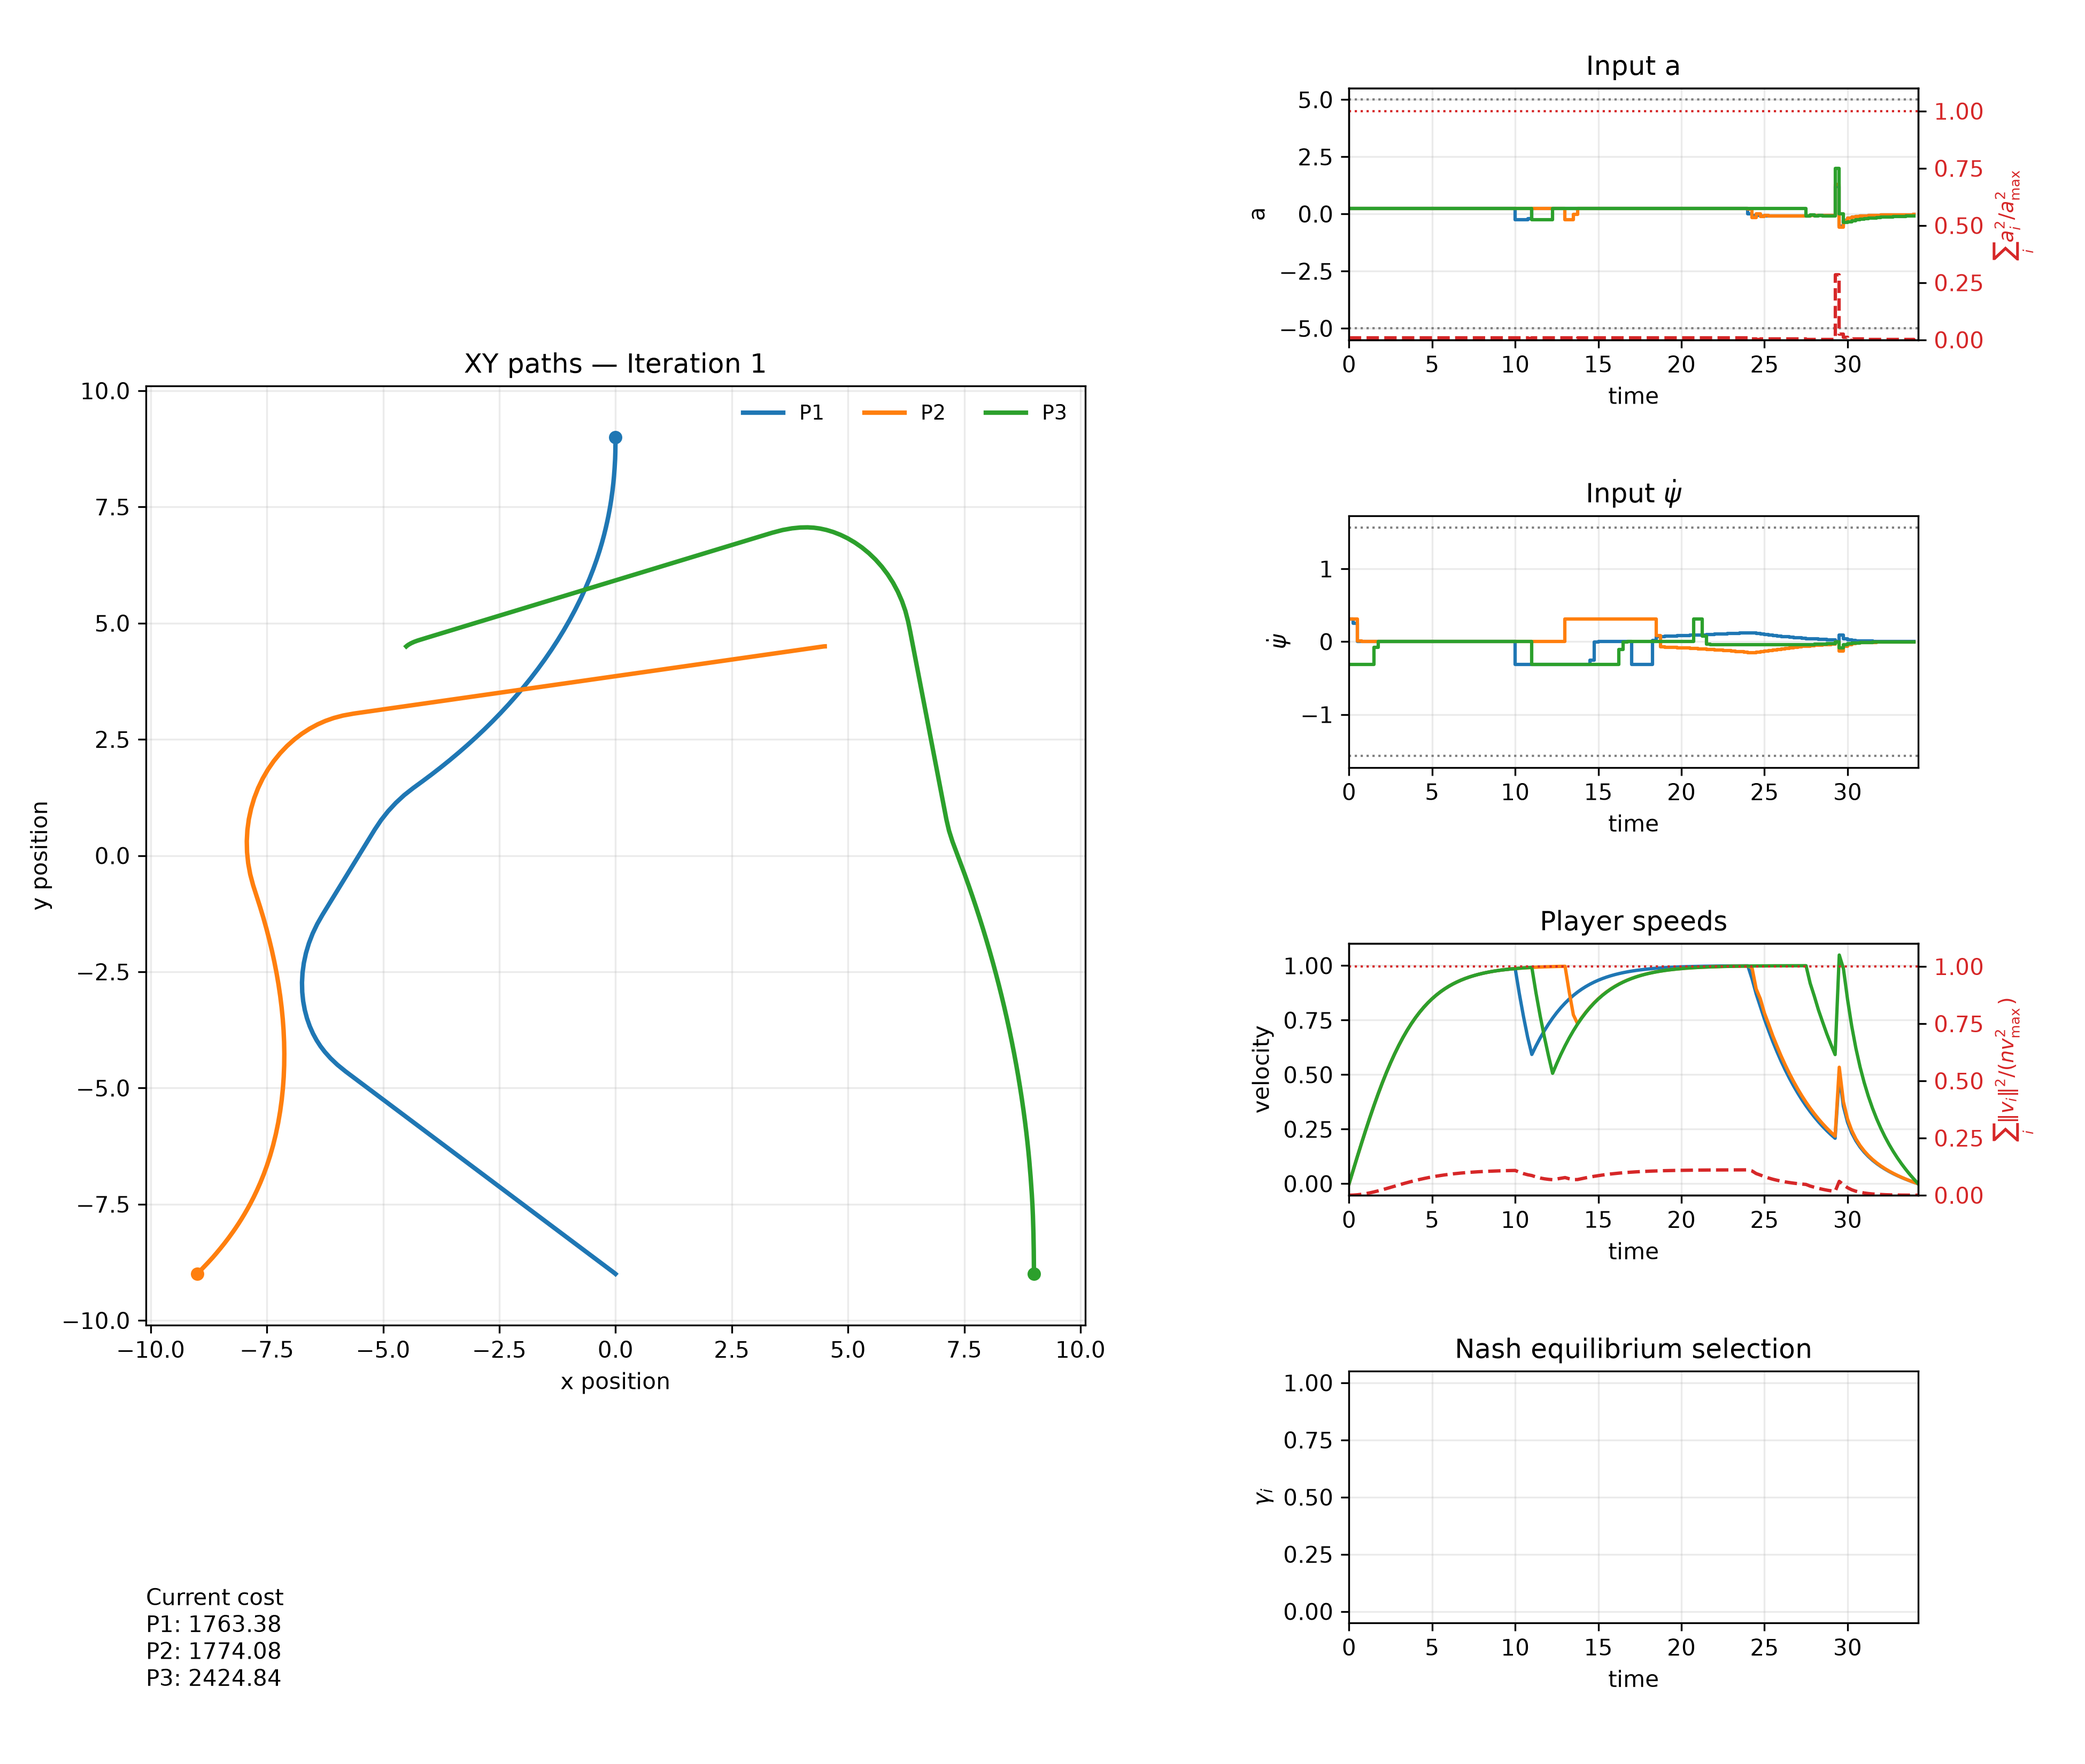
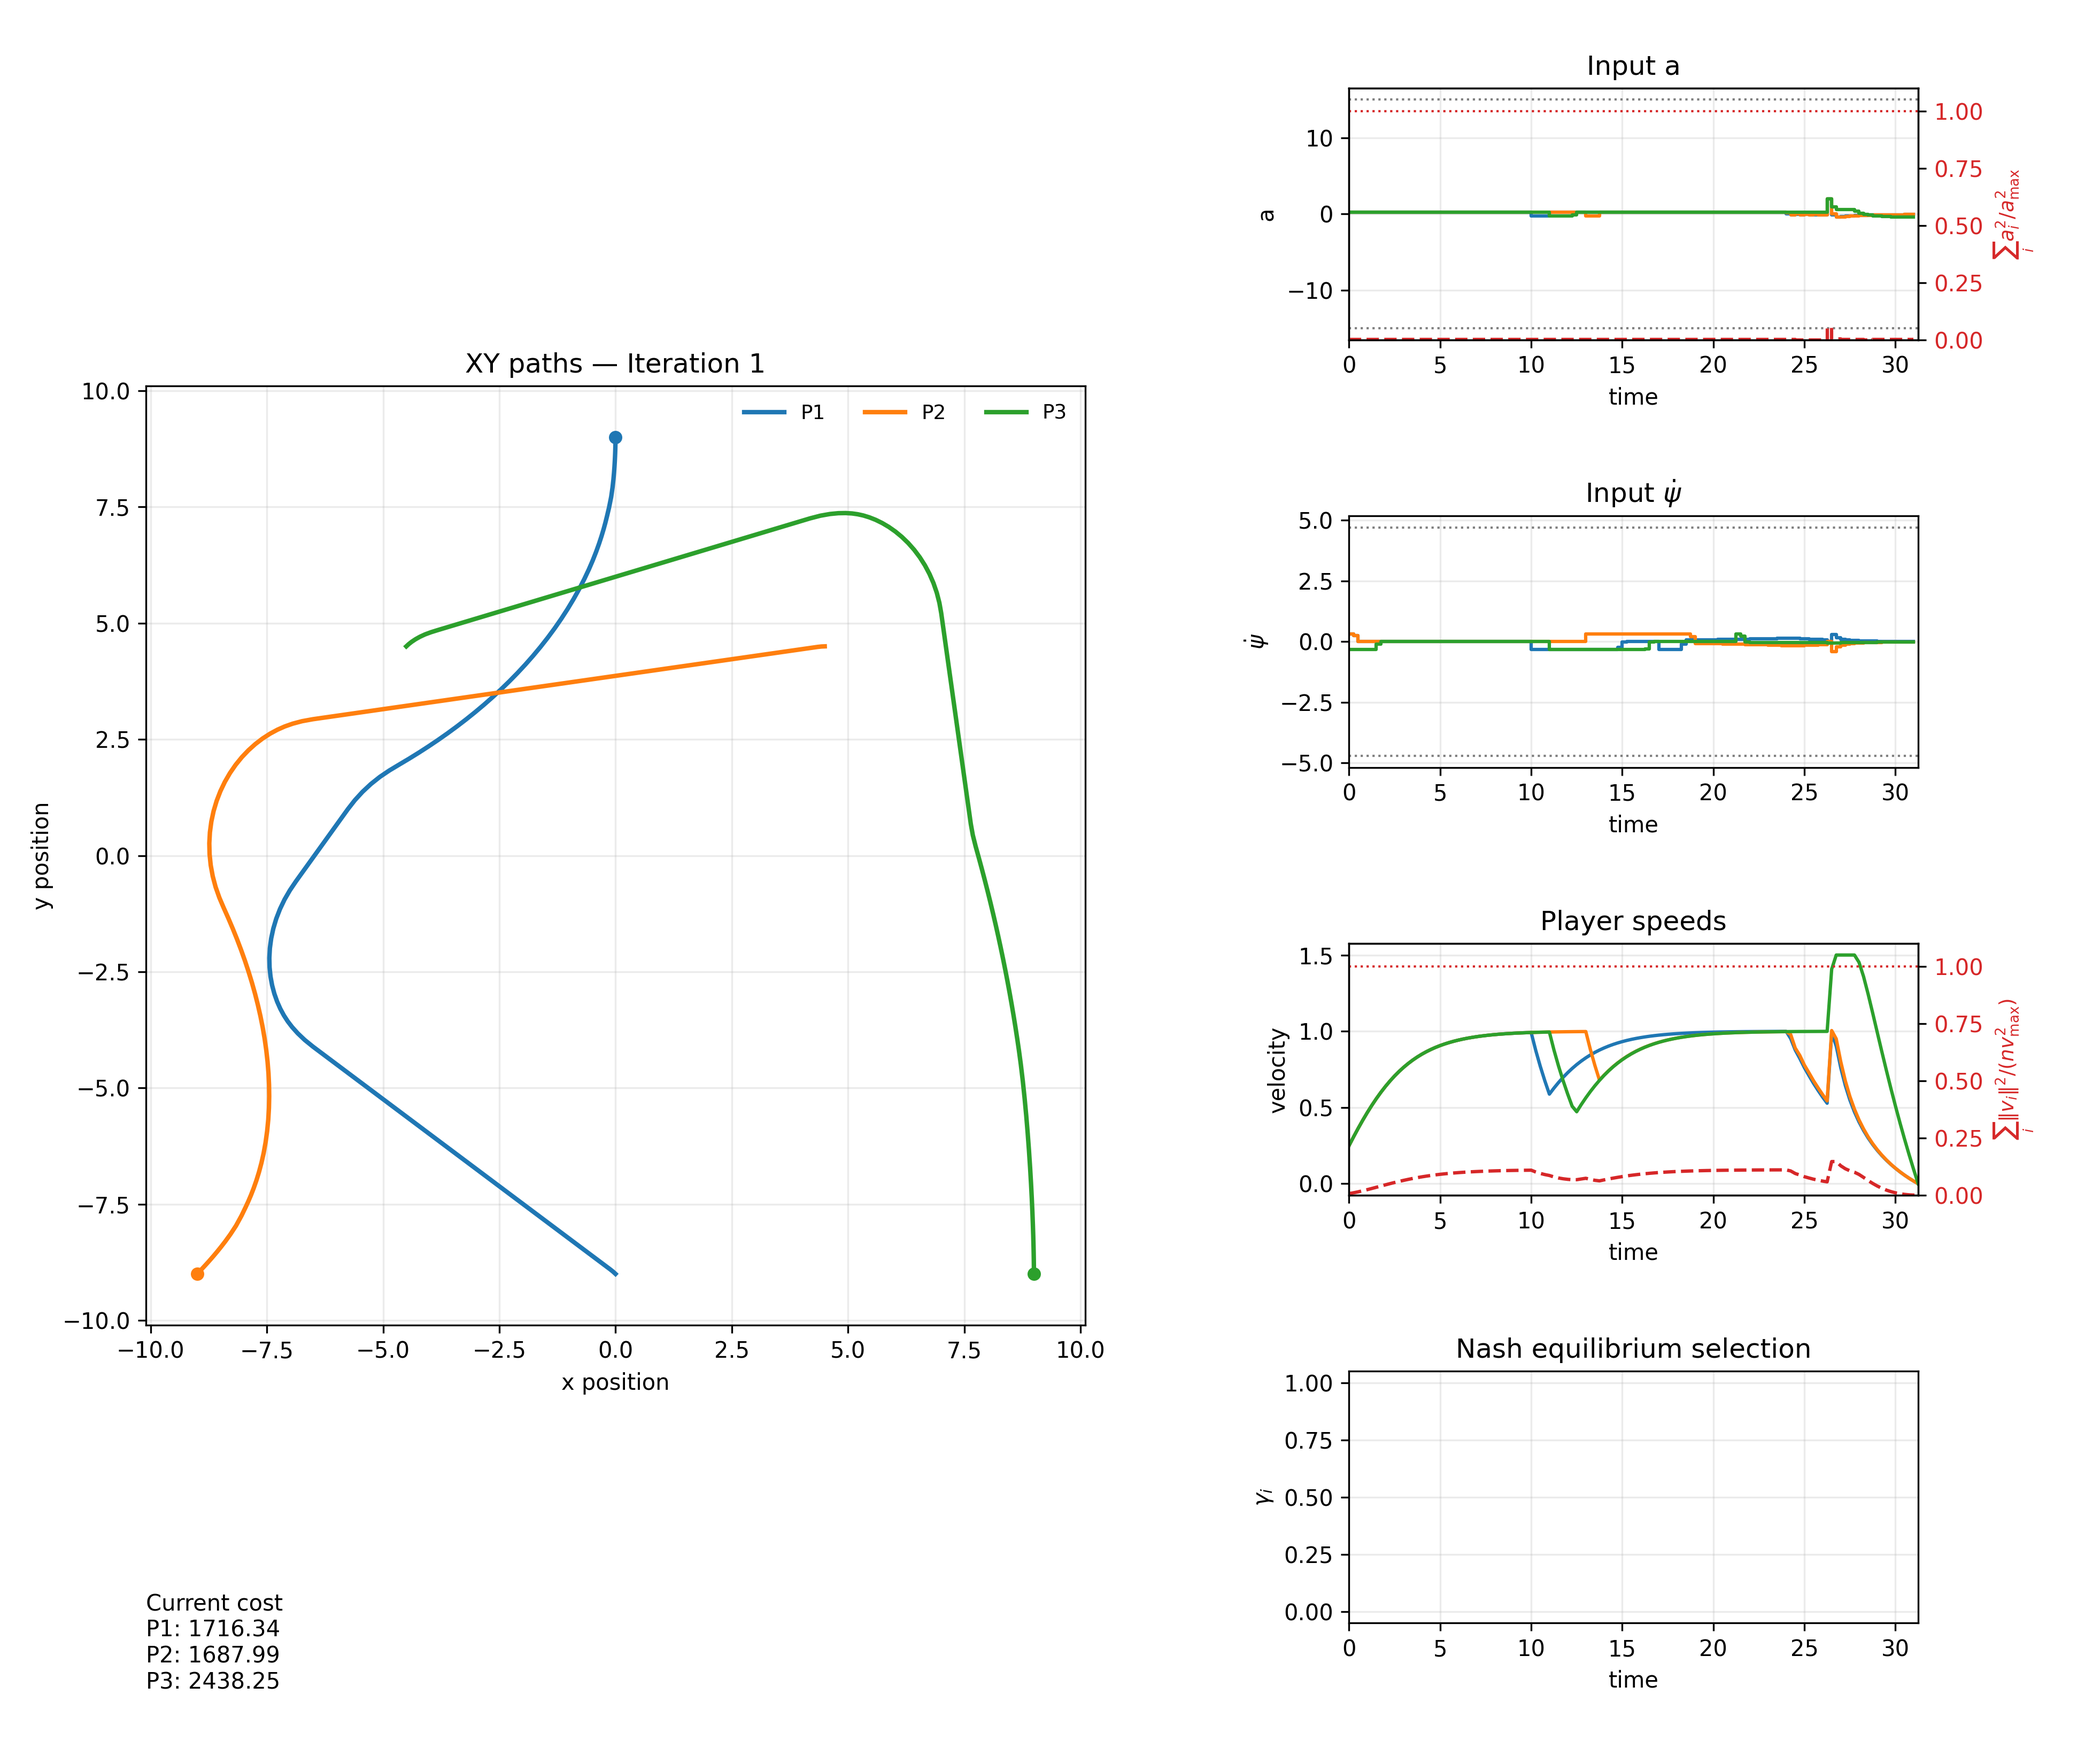
new mpc init

diff --git a/Game.py b/Game.py
@@ -104,8 +104,8 @@ class GameDynamics:
         self.d_sep = d_sep
         self.CD = 0.25  # drag coefficient for unicycle dynamics
         self.x_elip = 1.0
-        self.y_elip = 1.0
-        self.a_elip = 5.0
+        self.y_elip = 0.0
+        self.a_elip = 6.0
         self.b_elip = 2.0
 
         self.x0 = x0
@@ -140,11 +140,11 @@ class GameDynamics:
             steering_min, steering_max = self.steering_bounds
             self.f_private = ca.Function(
                 'f_private', [x1_sym, u1_sym], [
-                    u1_sym[0] + self.a_max,
-                    self.a_max - u1_sym[0],
+                    1-u1_sym[0]/self.a_max,
+                    u1_sym[0]/self.a_max+1,
                     x1_sym[2] - self.v_min,
-                    u1_sym[1] - steering_min,
-                    steering_max - u1_sym[1],
+                    u1_sym[1]/steering_min+1,
+                    1-u1_sym[1]/steering_max,
                     (x1_sym[0] - self.x_elip)**2/self.a_elip**2 + (x1_sym[1] - self.y_elip)**2/self.b_elip**2-1,
                 ],
             )
@@ -172,15 +172,13 @@ class GameDynamics:
                 offset_x = player * self.nx1
                 velocities.append(x_sym[offset_x + 2])
                 acc.append(u_sym[0])
-        shared_constraints.append(self.n_players * self.v_max**2 - sum(ca.sumsqr(v) for v in velocities))
-        shared_constraints.append(self.a_max**2 - sum(ca.sumsqr(acc) for acc in acc))
+        shared_constraints.append(1 - sum(ca.sumsqr(v) for v in velocities)/(self.n_players * self.v_max**2))
+        shared_constraints.append(1 - sum(ca.sumsqr(acc) for acc in acc)/self.a_max**2)
         for first in range(self.n_players):
             for second in range(first + 1, self.n_players):
                 i = first * self.nx1
                 j = second * self.nx1
-                shared_constraints.append(
-                    ca.sumsqr(x_sym[i:i + 2] - x_sym[j:j + 2]) - self.d_sep**2
-                )
+                shared_constraints.append( ca.sumsqr(x_sym[i:i + 2] - x_sym[j:j + 2])/self.d_sep**2-1 )
         self.f_shared = ca.Function('f_shared', [x_sym, *u_syms], shared_constraints)
         # self.f_shared = ca.Function('f_shared', [x_sym, u1_sym, u2_sym], [ca.sumsqr(x_sym[:2]-x_sym[self.nx1:self.nx1+2]) - self.d_sep**2])
 
@@ -193,6 +191,12 @@ class GameDynamics:
         k3 = self.dynamics(x1_sym + 0.5 * dt * k2, u1_sym)
         k4 = self.dynamics(x1_sym + dt * k3, u1_sym)
         self.xkp1 = x1_sym + (dt / 6.0) * (k1 + 2.0 * k2 + 2.0 * k3 + k4)
+        
+        if self.has_heading_state:
+            theta = self.xkp1[3]
+            self.xkp1[3] = theta - 2 * ca.pi * ca.floor(
+                    (theta + ca.pi) / (2 * ca.pi)
+        )
         
         # RK2:
         # k1 = self.dynamics(x1_sym, u1_sym)

diff --git a/LDG_Simulation.py b/LDG_Simulation.py
@@ -35,8 +35,8 @@ cooperative_mode = True
 bargaining_gammas = np.array([0.5])
 bargaining_gamma1 = np.array([1/3.0, 0.35, 0.30, 0.35, 0.40, 0.30, 0.40, 0.50, 0.25, 0.25, 0.80, 0.10, 0.10])
 bargaining_gamma2 = np.array([1/3.0, 0.30, 0.35, 0.35, 0.30, 0.40, 0.40, 0.25, 0.50, 0.25, 0.10, 0.80, 0.10])
-# bargaining_gamma1 = np.array([1/3.0])
-# bargaining_gamma2 = np.array([1/3.0])
+bargaining_gamma1 = np.array([1/3.0])
+bargaining_gamma2 = np.array([1/3.0])
 cooperative_selection = "nash_bargaining" # "weighted_sum", "nash_bargaining"
 cooperative_cost_weights = np.array([1.0, 1.0, 1.0]) / 3.0
 # Nash bargaining compares remaining costs against this total minus costs
@@ -47,14 +47,14 @@ baseline_mode = "accepted_plan"
 disagreement_costs = None
 Niterations = 15
 arrival_tolerance = 0.01
-N = 6
+N = 5
 x1f = np.array([player_state(0.0, 9.0, psi=np.deg2rad(90), dynamics_type=dynamics_type)])
 x2f = np.array([player_state(-9.0, -9.0, psi=np.deg2rad(-135), dynamics_type=dynamics_type)])
 x3f = np.array([player_state(9.0, -9.0, psi=np.deg2rad(-90), dynamics_type=dynamics_type)])
 x0_players = (
-    player_state(0.0, -9.0, psi=np.deg2rad(135), dynamics_type=dynamics_type),
-    player_state(4.5, 4.5, psi=np.deg2rad(179), dynamics_type=dynamics_type),
-    player_state(-4.5, 4.5, psi=np.deg2rad(45), dynamics_type=dynamics_type),
+    player_state(0.0, -9.0, vx=0.25, psi=np.deg2rad(135), dynamics_type=dynamics_type),
+    player_state(4.5, 4.5, vx=0.25, psi=np.deg2rad(180), dynamics_type=dynamics_type),
+    player_state(-4.5, 4.5, vx=0.25, psi=np.deg2rad(45), dynamics_type=dynamics_type),
 )
 alpha1, alpha2 = 1/3.0, 1/3.0
 

diff --git a/DGSolver.py b/DGSolver.py
@@ -484,7 +484,7 @@ class DGSolver:
         self.Rk = R_cost
 
         # Unicycle inputs are [a, psi] or [a, psi_dot]; only acceleration is penalized.
-        input_cost_weights = (np.diag([1.0, 0.0]) if self.game.is_unicycle
+        input_cost_weights = (np.diag([1.0, 0.1]) if self.game.is_unicycle
                               else np.eye(self.game.nu1))
         self.p_tol = p_tol
         self.verbose = verbose
@@ -1266,7 +1266,7 @@ class DGSolver:
         else:
             cost_filter = (Cost2Go <= prev_cost2go + self.cost_tol) 
         if not Extended_Horizon:
-            horizon_search = max(5-self.game.iteration, 1.5)*self.N * self.dt
+            horizon_search = max(5-self.game.iteration, 1.0)*self.N * self.dt
         else:
             horizon_search = 5*self.N * self.dt
         candidate_indices = np.where(
@@ -1275,7 +1275,7 @@ class DGSolver:
                 | (distance_to_previous_terminal_state1 < 2.0)
                 | (distance_to_previous_terminal_state2 < 2.0)
                 | (distance_to_previous_terminal_state3 < 2.0))
-            & (sample_times > t + (self.N-1) * self.dt - 1e-5)
+            & (sample_times >= t + (self.N-1) * self.dt - 1e-5)
             
         )[0]
 
